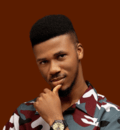
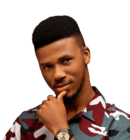
updated configuration and experts

diff --git a/src/components/data.js b/src/components/data.js
@@ -65,7 +65,7 @@ export const reviews = [
     imgmobile: "ekwuememobile1.png",
     role: "Web Developer",
     role2: "(Senior Level)",
-    text: "Osinachi is a highly skilled web developer with a passion for creating dynamic and user-friendly websites. With expertise in HTML, CSS, and JavaScript, he brings designs to life with precision and creativity. His proficiency in various programming languages and frameworks allows him to create robust solutions that meet client requirements.",
+    text: "Osinachi is a highly skilled web developer with a passion for creating dynamic and user-friendly websites. With expertise in HTML, CSS, and JavaScript, he brings designs to life with precision and creativity. His proficiency in various programming languages and frameworks, build tools, state managements, API calls and security integration allows him to create robust solutions that meet client requirements.",
     hire: "Hire Osinachi",
     instagram: "https://www.instagram.com/sinabenedict?igsh=MTVkeXV3NWEwdDdreA%3D%3D&utm_source=qr",
     linkedin: "http://linkedin.com/in/osinachi-ekwueme-b38453184",
@@ -83,6 +83,7 @@ export const reviews = [
     instagram: "https://www.instagram.com/preciouswilfred_pc?igsh=MWc5bGIyNGVrNHY3Yg==",
     linkedin: "https://www.linkedin.com/in/precious-wilfred-579b31201",
     x: "https://x.com/presh_wilfred?t=iHfK2Jlt_os_CsN08Tmrkg&s=09",
+    whatsapp: "https://wa.me/2349121487835",
     style: "bg-black pl-2"
   },
   {
@@ -96,4 +97,17 @@ export const reviews = [
     hire: "Hire John",
     style: "bg-black pl-2"
   },
+  {
+    name: "Omang Thomas",
+    img: "/omang.png",
+    imgmobile: "/omangmobile.png",
+    role: "Product Designer",
+    role2: "(Senior Level)",
+    text: "Omang is a passionate UI/UX designer with over three years of experience crafting intuitive, user-centered digital experiences. He specializes in creating visually engaging interfaces and seamless user journeys, blending creativity with data-driven insights. Proficient in tools like Figma, Sketch, and Adobe XD; worked on projects ranging from mobile apps to web platforms, collaborating with cross-functional teams to deliver impactful designs. His focus is on solving user problems while aligning with business goals, always striving for clean, accessible, and delightful interfaces.",
+    linkedin: "https://www.linkedin.com/in/omang-thomas-a6519b228?utm_source=share&utm_campaign=share_via&utm_content=profile&utm_medium=ios_app",
+    x: "https://x.com/thomasomang?s=11",
+    whatsapp: "https://wa.me/2349055584700",
+    hire: "Hire Omang",
+    style: "bg-black pl-2"
+  }
 ];

diff --git a/src/components/mvpstudio/Mvpstudiocatalog.jsx b/src/components/mvpstudio/Mvpstudiocatalog.jsx
@@ -14,7 +14,7 @@ const Mvpstudiocatalog = () => {
   const location = useLocation();
   const params = new URLSearchParams(location.search);
 
-  // Get initial category from sessionStorage or query string or default
+  // Get initial category from query string, sessionStorage, or default
   const sessionCategory = sessionStorage.getItem("catalogCategory");
   const initialCategory = params.get('category') || sessionCategory || categories[0];
   const [activeCategory, setActiveCategory] = useState(initialCategory);
@@ -36,26 +36,45 @@ const Mvpstudiocatalog = () => {
     return unsub;
   }, []);
 
-  // Restore scroll position and active category on mount
+  // Restore scroll position after projects are loaded
+  useEffect(() => {
+    if (projects.length > 0) {
+      const savedScroll = sessionStorage.getItem("catalogScroll");
+      if (savedScroll) {
+        window.scrollTo(0, parseInt(savedScroll, 10));
+        sessionStorage.removeItem("catalogScroll");
+      }
+    }
+  }, [projects]);
+
+  // Restore active category on mount (keep this separate)
   useEffect(() => {
     const savedCategory = sessionStorage.getItem("catalogCategory");
     if (savedCategory && categories.includes(savedCategory)) {
       setActiveCategory(savedCategory);
     }
-    const savedScroll = sessionStorage.getItem("catalogScroll");
-    if (savedScroll) {
-      window.scrollTo(0, parseInt(savedScroll, 10));
-      sessionStorage.removeItem("catalogScroll");
-    }
   }, []);
 
   // Update URL query string when activeCategory changes
   useEffect(() => {
-    const params = new URLSearchParams(location.search);
+  const params = new URLSearchParams(location.search);
+  if (params.get('category') !== activeCategory) {
     params.set('category', activeCategory);
     navigate({ search: params.toString() }, { replace: true });
-    sessionStorage.setItem("catalogCategory", activeCategory);
-  }, [activeCategory, navigate, location.search]);
+  }
+  sessionStorage.setItem("catalogCategory", activeCategory);
+  // eslint-disable-next-line
+}, [activeCategory]);
+
+  // Always prioritize query string for category when it changes
+  useEffect(() => {
+  const params = new URLSearchParams(location.search);
+  const queryCategory = params.get('category');
+  if (queryCategory && categories.includes(queryCategory) && queryCategory !== activeCategory) {
+    setActiveCategory(queryCategory);
+  }
+  // eslint-disable-next-line
+}, [location.search]);
 
   // Updated filtering logic
   const filteredProjects = projects.filter((proj) => {

diff --git a/src/components/home/Meettheexperts.jsx b/src/components/home/Meettheexperts.jsx
@@ -9,7 +9,8 @@ const experts = [
     img: "/ibejimobile.png",
     imgbanner: "/flagmobile.png",
     hire: "Hire Sarah",
-    style: "top-2 left-1/4"
+    style: "top-2 left-1/4",
+    styleimg: "bg-yellow-500"
   },
   {
     name: "Okpanachi Isah",
@@ -17,15 +18,17 @@ const experts = [
     img: "/isahmobile.png",
     imgbanner: "/penmobile.png",
     hire: "Hire Okpanachi",
-    style: "top-20 left-7/11"
+    style: "top-20 left-7/11",
+    styleimg: "bg-blue-600"
   },
   {
-    name: "John Esan",
-    role: "Product manager",
-    img: "/esanmobile.png",
+    name: "Omang Thomas",
+    role: "Product designer",
+    img: "/omangmobile.png",
     imgbanner: "/penmobile.png",
-    hire: "Hire John",
-    style: "bottom-16 left-7/11"
+    hire: "Hire Omang",
+    style: "bottom-16 left-7/11",
+    styleimg: "bg-gray-500"
   },
   {
     name: "Osinachi Ekwueme",
@@ -41,7 +44,8 @@ const experts = [
     img: "/wilfredmobile.png",
     imgbanner: "/chatmobile.png",
     hire: "Hire Precious",
-    style: "top-35 right-7/10"
+    style: "top-35 right-7/10",
+    styleimg: "bg-orange-600"
   }
 ];
 
@@ -179,7 +183,7 @@ const Meettheexperts = () => {
               <img
                 src={expert.img}
                 alt={expert.name}
-                className="w-10 h-10 md:w-12 md:h-12 rounded-full border-4 border-white shadow-xl"
+                className={`w-10 h-10 md:w-12 md:h-12 rounded-full border-4 border-white shadow-xl ${expert.styleimg}`}
               />
               <div className={`bg-white rounded-xl shadow-xl px-2 py-1 md:px-4 md:py-2 text-left ${isLeft ? 'mr-1' : 'ml-1'} flex-1 flex flex-row p-5 gap-1 mb-20`}>
                 <img src={expert.imgbanner} className='h-1/2'/>

diff --git a/src/components/home/Meettheexpertsmobile.jsx b/src/components/home/Meettheexpertsmobile.jsx
@@ -6,21 +6,24 @@ const experts = [
     role: "Head of Product",
     img: "/ibejimobile.png",
     imgbanner: "/flagmobile.png",
-    style: "top-10 left-1/7 min-[460px]:left-1/4"
+    style: "top-10 left-1/7 min-[460px]:left-1/4",
+    styleimg: "bg-yellow-500"
   },
   {
     name: "Okpanachi Isah",
     role: "Product Manager",
     img: "/isahmobile.png",
     imgbanner: "/penmobile.png",
-    style: "top-15 left-7/12"
+    style: "top-15 left-7/12",
+    styleimg: "bg-blue-600"
   },
   {
     name: "John Esan",
     role: "Product manager",
     img: "/esanmobile.png",
     imgbanner: "/penmobile.png",
-    style: "bottom-16 left-7/12"
+    style: "bottom-16 left-7/12",
+    styleimg: "bg-gray-500"
   },
   {
     name: "Osinachi Ekwueme",
@@ -34,7 +37,8 @@ const experts = [
     role: "Product manager",
     img: "/olajidemobile.png",
     imgbanner: "/chatmobile.png",
-    style: "top-25 right-7/11 min-[480px]:right-61/100"
+    style: "top-25 right-7/11 min-[480px]:right-61/100",
+    styleimg: "bg-orange-500"
   }
 ];
 
@@ -163,7 +167,7 @@ const Meettheexpertsmobile = () => {
               <img
                 src={expert.img}
                 alt={expert.name}
-                className="w-10 h-10 md:w-12 md:h-12 rounded-full border-4 border-white shadow-lg"
+                className={`w-10 h-10 md:w-12 md:h-12 rounded-full border-4 border-white shadow-lg ${expert.styleimg}`}
               />
               <div className={`bg-white rounded-xl shadow-md px-2 py-1 md:px-4 md:py-2 text-left ${isLeft ? 'mr-1' : 'ml-1'} flex-1 flex flex-row p-5 gap-1 mb-10`}>
                 <img src={expert.imgbanner} className='h-1/2'/>

diff --git a/src/index.css b/src/index.css
@@ -42,6 +42,18 @@
         #ccc9d6 50%
     );
 
+    --talentsreviewgradient: linear-gradient(
+        250deg,
+        #4edbe2 30%,
+        #c4c0cf 50%
+    );
+
+    --talentsreviewgradientmobile: linear-gradient(
+        250deg,
+        #d9dce9 30%,
+        #c9c8ce 50%
+    );
+
 
     --swiper-button-next: url('/arrowright.svg');
       
@@ -114,6 +126,14 @@ body{
 
 .mvpuploadgradient{
     background: var(--mvpuploadgradient);
+}
+
+.talentsreviewgradient {
+    background: var(--talentsreviewgradient);
+}
+
+.talentsreviewgradientmobile {
+    background: var(--talentsreviewgradientmobile);
 }
 
 @media screen and (max-width: 768px) {

diff --git a/src/components/talents/Talentsreviews.jsx b/src/components/talents/Talentsreviews.jsx
@@ -59,8 +59,10 @@ const Talentsreviews = () => {
             `}
             tabIndex={0}
           >
+            <div className='flex flex-row talentsreviewgradientmobile rounded-full'>
             <img src={review.img} className='hidden object-cover w-20 h-30 rounded-full z-10 lg:flex lg:w-40  lg:h-60 lg:flex-shrink-0'/>
             <img src={review.imgmobile} className='object-cover max-sm:w-24 max-sm:h-34 w-20 h-30 rounded-full z-10 flex lg:hidden lg:w-40  lg:h-60 lg:flex-shrink-0'/>
+            </div>
           </div>
         ))}
       </div>
